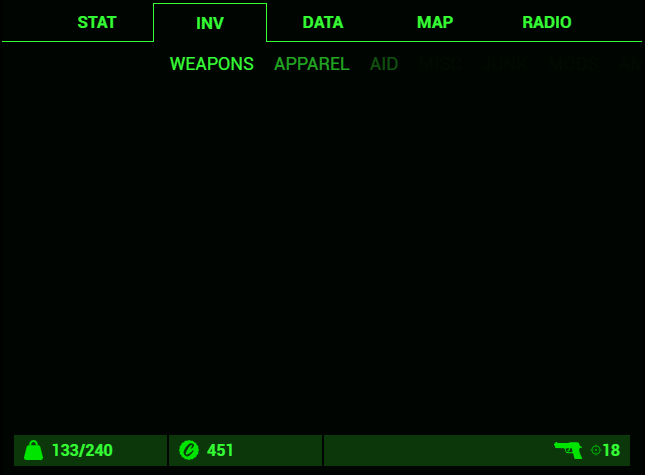
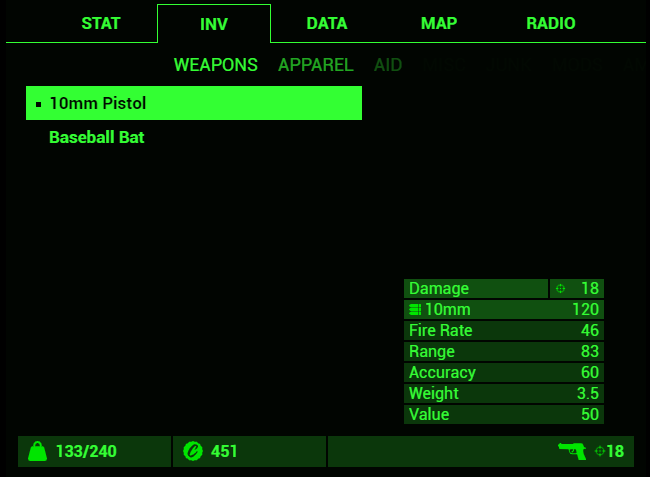
Started working on inventory (not interactive yet, added new color variants, added Guest profile

diff --git a/renderer.js b/renderer.js
@@ -30,7 +30,7 @@ document.addEventListener('DOMContentLoaded', () => {
     });
     
     // Set initial active tab
-    setActiveTab('stat');
+    setActiveTab(currentTab);
 });
 
 function addLeadingZero(num) {
@@ -57,6 +57,15 @@ function setProfile(chosenName) {
     lightValue = 60;
 
     birthday = "2003/08/26";
+  }
+
+  if (chosenName == "Guest") {
+
+    hueValue = 120;
+    satValue = 100;
+    lightValue = 60;
+
+    birthday = "2000/01/01";
   }
 
   initializeColorSliders(true);
@@ -164,6 +173,9 @@ export function loadSubMenuContent(category) {
           }
           if (tab == "stat") {
             document.getElementById("name").innerHTML = nickName;
+            if (nickName == 'Guest') {
+              document.getElementById("name").innerHTML = '';
+            }
           }
       })
       .catch(error => console.error('Failed to load content:', error));
@@ -227,8 +239,11 @@ function initializeColorSliders(force) {
     }
 
       const newLight = `hsl(${hueValue}, ${satValue}%, ${lightValue}%)`;
+      const newMedLight = `hsla(${hueValue}, ${satValue}%, ${lightValue}%, 0.3)`;
       const newMed = `hsla(${hueValue}, ${satValue}%, ${lightValue}%, 0.2)`;
+      const newMedDark = `hsla(${hueValue}, ${satValue}%, ${lightValue}%, 0.1)`;
       const newDark = `hsla(${hueValue}, ${satValue}%, ${lightValue}%, 0.02)`;
+      const newDarkText = `hsla(${hueValue}, ${satValue}%, 2%)`; //--darkText: hsla(120, 100%, 2%);
 
       document.documentElement.style.setProperty('--hue', `${hueValue-140}deg`);
       document.documentElement.style.setProperty('--biHue', `${hueValue-50}deg`);
@@ -237,9 +252,13 @@ function initializeColorSliders(force) {
       document.documentElement.style.setProperty('--biSat', `${Math.pow(parseInt(satValue), 2)/10}%`);
       document.documentElement.style.setProperty('--brightness', `${lightValue*2}%`);
       document.documentElement.style.setProperty('--biBrightness', `${lightValue*1.5}%`);
+
       document.documentElement.style.setProperty('--light', newLight);
+      document.documentElement.style.setProperty('--mediumLight', newMedLight);
       document.documentElement.style.setProperty('--medium', newMed);
+      document.documentElement.style.setProperty('--mediumDark', newMedDark);
       document.documentElement.style.setProperty('--dark', newDark);
+      document.documentElement.style.setProperty('--darkText', newDarkText);
   }
 
   // Add event listeners to all sliders

diff --git a/style.css b/style.css
@@ -1,17 +1,8 @@
-/*:root {
-  --light: hsl(120, 100%, 50%);
-  --medium: hsla(120, 100%, 50%, 0.2);
-  --dark: hsla(120, 100%, 50%, 0.02);
-  --hue: -20deg;
-  --sat: 100%;
-  --brightness: 100%;
-}*/
-
 body {
     background-color: black;
     margin: 0;
-    cursor: none;
     user-select: none;
+    cursor: none;
     cursor: unset; /* debug */
 }
 
@@ -234,4 +225,112 @@ td.status-overview-symbol-and-value {
 td.status-overview-separator {
   background-color: unset;
   width: 2%;
+}
+
+/*---*/
+
+.list-container {
+  display: flex;
+  flex-direction: row;
+  flex-wrap: nowrap;
+}
+
+.list-half {
+  height: 340px;
+  margin: 0 20px;
+}
+
+.left-half {
+  width: 60%;
+}
+
+.right-half {
+  display: flex;
+  flex-direction: column;
+  justify-content: space-between;
+  width: 40%;
+}
+
+.right-half table {
+  width: 200px;
+}
+
+.right-half table td {
+  display: flex;
+  flex-direction: row;
+  flex-wrap: nowrap;
+  justify-content: space-between;
+  background-color: var(--medium);
+  width: 190px;
+  padding: 0 5px;
+}
+
+#dmg {
+  background-color: unset;
+  width: 198px;
+  border-spacing: 0;
+  padding: 0;
+}
+
+#dmg span {
+  display: table-cell;
+}
+
+#dmg > span {
+  display: flex;
+  flex-direction: row;
+  flex-wrap: nowrap;
+  justify-content: space-between;
+  background-color: var(--mediumLight);
+  padding: 0 5px;
+}
+
+#dmg-txt {
+  width: 150px;
+}
+
+#dmg-val {
+  width: 50px;
+  transform: translateX(2px);
+}
+
+#ammo {
+  background-color: var(--mediumLight);
+}
+
+/*---*/
+
+.itemList {
+}
+
+.itemList span {
+  margin-left: -10px;
+}
+
+.itemList-item {
+  font-size: 17px;
+  font-weight: bold;
+  padding: 7px;
+  padding-left: 10px;
+  display: list-item;
+  list-style-position: inside;
+  list-style-type: square;
+}
+
+.itemList-item.active {
+  background-color: var(--light);
+  color: var(--darkText);
+}
+
+.itemList-item::marker {
+  color: #00000000;
+  margin: 0 5px 0 0;
+}
+
+.itemList-item.equipped::marker {
+  color: var(--light);
+}
+
+.itemList-item.equipped.active::marker {
+  color: var(--darkText);
 }

diff --git a/tabs/inv/weapons.html b/tabs/inv/weapons.html
@@ -1,2 +1,57 @@
+<div class="list-container">
+    <div class="left-half list-half">
+        <div id="inventory" class="itemList">
+            <div class="itemList-item active equipped"><span>10mm Pistol</span></div>
+            <div class="itemList-item"><span>Baseball Bat</span></div>
+        </div>
+    </div>
+    <div class="right-half list-half">
+        <div>
+            
+        </div>
+        <table>
+            <tr>
+                <td id="dmg">
+                    <span id="dmg-txt">
+                        Damage
+                    </span>
+                    <span id="dmg-val">
+                        <span><img src="images/crosshair.png" height="11" class="black-icon"></span><span>18</span>
+                    </span>
+                </td>
+            </tr>
+            <tr>
+                <td id="ammo">
+                    <span><img src="images/ammo.svg" height="11" class="black-icon">&nbsp;10mm</span><span>120</span>
+                </td>
+            </tr>
+            <tr>
+                <td>
+                    <span>Fire Rate</span><span>46</span>
+                </td>
+            </tr>
+            <tr>
+                <td>
+                    <span>Range</span><span>83</span>
+                </td>
+            </tr>
+            <tr>
+                <td>
+                    <span>Accuracy</span><span>60</span>
+                </td>
+            </tr>
+            <tr>
+                <td>
+                    <span>Weight</span><span>3.5</span>
+                </td>
+            </tr>
+            <tr>
+                <td>
+                    <span>Value</span><span>50</span>
+                </td>
+            </tr>
+        </table>
+    </div>
+</div>
 
 <template id="footer-content"><img src="images/gun.svg" height="17" class="black-icon" style="margin: -3px 0">&nbsp;&nbsp;<img src="images/crosshair.png" height="12" class="black-icon">18</template>

diff --git a/tabs/settings.html b/tabs/settings.html
@@ -29,6 +29,20 @@
         <img src="images/rad.png" class="black-icon" height="50"/>
         <img src="images/helmet.png" class="black-icon" height="50"/>
         <img src="images/ammo.svg" class="black-icon" height="50"/>
+        <table>
+            <tr>
+                <td style="background-color: var(--light); width: 30px; height: 30px">
+                </td>
+                <td style="background-color: var(--mediumLight); width: 30px; height: 30px">
+                </td>
+                <td style="background-color: var(--medium); width: 30px; height: 30px">
+                </td>
+                <td style="background-color: var(--mediumDark); width: 30px; height: 30px">
+                </td>
+                <td style="background-color: var(--dark); width: 30px; height: 30px">
+                </td>
+            </tr>
+        </table>
         
     </div>
     <div id="footer">
